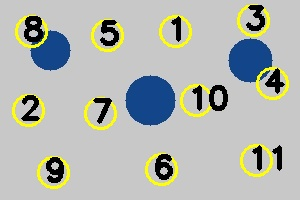
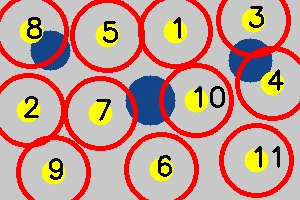
Add red circles to highlight each detected walnut
- Implement red circle highlighting for all 5 marking methods:
  1. Red circle (30px) + white text outside
  2. Red circle (35px) + yellow center + black text
  3. Red circle (32px) + green text above
  4. Red circle (30px) + white center + blue text (main)
  5. Double red circles (35px/28px) + white text outside
- Ensure each walnut is clearly circled in red for easy identification
- Update comparison charts with new red circle-based methods
- Improve visual clarity with consistent red circle highlighting
- Maintain numbering system while adding circle boundaries

🤖 Generated with [Claude Code](https://claude.ai/code)

diff --git a/walnut_detector.py b/walnut_detector.py
@@ -90,51 +90,61 @@ def walnut_detector():
             # 步骤4: 创建多种标记方式的对比图
             print("🔍 步骤4: 创建多种标记方式对比图...")
             
-            # 方法1: 简单红色圆点 + 白色数字
+            # 方法1: 红色圆圈 + 白色数字（简单清晰）
             marked_method1 = image.copy()
             for i, center in enumerate(cluster_centers):
                 center_x, center_y = int(center[0]), int(center[1])
-                cv2.circle(marked_method1, (center_x, center_y), 8, (0, 0, 255), -1)
-                cv2.putText(marked_method1, str(i+1), (center_x + 15, center_y - 15), 
+                # 用红色圆圈圈住核桃
+                cv2.circle(marked_method1, (center_x, center_y), 30, (0, 0, 255), 3)
+                # 在圆圈外添加白色数字
+                cv2.putText(marked_method1, str(i+1), (center_x + 35, center_y - 25), 
                            cv2.FONT_HERSHEY_SIMPLEX, 0.8, (255, 255, 255), 2)
             
-            # 方法2: 黄色圆圈 + 黑色数字
+            # 方法2: 红色圆圈 + 黄色背景 + 黑色数字（高对比度）
             marked_method2 = image.copy()
             for i, center in enumerate(cluster_centers):
                 center_x, center_y = int(center[0]), int(center[1])
-                cv2.circle(marked_method2, (center_x, center_y), 15, (0, 255, 255), 2)
-                cv2.putText(marked_method2, str(i+1), (center_x - 8, center_y + 8), 
-                           cv2.FONT_HERSHEY_SIMPLEX, 1.0, (0, 0, 0), 3)
+                # 用红色圆圈圈住核桃
+                cv2.circle(marked_method2, (center_x, center_y), 35, (0, 0, 255), 4)
+                # 在中心添加黄色背景圆圈
+                cv2.circle(marked_method2, (center_x, center_y), 12, (0, 255, 255), -1)
+                # 添加黑色数字
+                cv2.putText(marked_method2, str(i+1), (center_x - 6, center_y + 6), 
+                           cv2.FONT_HERSHEY_SIMPLEX, 0.9, (0, 0, 0), 2)
             
-            # 方法3: 绿色方框 + 白色数字
+            # 方法3: 红色圆圈 + 绿色数字（醒目）
             marked_method3 = image.copy()
             for i, center in enumerate(cluster_centers):
                 center_x, center_y = int(center[0]), int(center[1])
-                cv2.rectangle(marked_method3, (center_x - 12, center_y - 12), 
-                             (center_x + 12, center_y + 12), (0, 255, 0), 2)
-                cv2.putText(marked_method3, str(i+1), (center_x - 8, center_y + 8), 
-                           cv2.FONT_HERSHEY_SIMPLEX, 0.9, (255, 255, 255), 2)
+                # 用红色圆圈圈住核桃
+                cv2.circle(marked_method3, (center_x, center_y), 32, (0, 0, 255), 3)
+                # 在圆圈上方添加绿色数字
+                cv2.putText(marked_method3, str(i+1), (center_x - 8, center_y - 40), 
+                           cv2.FONT_HERSHEY_SIMPLEX, 1.0, (0, 255, 0), 3)
             
-            # 方法4: 蓝色圆圈背景 + 白色数字（大字体）
+            # 方法4: 红色圆圈 + 白色背景 + 蓝色数字（主要结果）
             marked_method4 = image.copy()
             for i, center in enumerate(cluster_centers):
                 center_x, center_y = int(center[0]), int(center[1])
-                cv2.circle(marked_method4, (center_x, center_y), 20, (255, 0, 0), 3)
-                cv2.circle(marked_method4, (center_x, center_y), 17, (255, 255, 255), -1)
-                cv2.putText(marked_method4, str(i+1), (center_x - 8, center_y + 8), 
-                           cv2.FONT_HERSHEY_SIMPLEX, 1.2, (0, 0, 255), 3)
+                # 用红色圆圈圈住核桃
+                cv2.circle(marked_method4, (center_x, center_y), 30, (0, 0, 255), 3)
+                # 在中心添加白色背景圆圈
+                cv2.circle(marked_method4, (center_x, center_y), 10, (255, 255, 255), -1)
+                # 添加蓝色数字
+                cv2.putText(marked_method4, str(i+1), (center_x - 6, center_y + 6), 
+                           cv2.FONT_HERSHEY_SIMPLEX, 0.8, (255, 0, 0), 2)
             
-            # 方法5: 原始复杂多层设计
+            # 方法5: 双层红色圆圈 + 白色数字（专业设计）
             marked_method5 = image.copy()
             for i, center in enumerate(cluster_centers):
                 center_x, center_y = int(center[0]), int(center[1])
-                cv2.circle(marked_method5, (center_x, center_y), 25, (0, 0, 255), 4)
-                cv2.circle(marked_method5, (center_x, center_y), 22, (255, 255, 255), -1)
-                cv2.circle(marked_method5, (center_x, center_y), 20, (0, 0, 255), 2)
-                cv2.putText(marked_method5, str(i+1), (center_x - 10, center_y + 10), 
-                           cv2.FONT_HERSHEY_SIMPLEX, 1.5, (0, 0, 0), 4)
-                cv2.putText(marked_method5, str(i+1), (center_x - 10, center_y + 10), 
-                           cv2.FONT_HERSHEY_SIMPLEX, 1.5, (255, 255, 255), 2)
+                # 外层红色圆圈
+                cv2.circle(marked_method5, (center_x, center_y), 35, (0, 0, 255), 2)
+                # 内层红色圆圈
+                cv2.circle(marked_method5, (center_x, center_y), 28, (0, 0, 255), 2)
+                # 在圆圈外添加白色数字
+                cv2.putText(marked_method5, str(i+1), (center_x + 40, center_y), 
+                           cv2.FONT_HERSHEY_SIMPLEX, 1.2, (255, 255, 255), 3)
             
             # 保存各种方法的单独结果
             cv2.imwrite('walnut_detection_method1.jpg', marked_method1)
@@ -175,32 +185,31 @@ def walnut_detector():
                 plt.title('Grayscale')
                 plt.axis('off')
                 
-                # 方法1: 简单红色圆点 + 白色数字
-                method1_rgb = cv2.cvtColor(marked_method1, cv2.COLOR_BGR2RGB)
+                # 方法1: 简单红色圆圈 + 白色数字（简单清晰）
                 plt.subplot(2, 3, 3)
                 plt.imshow(method1_rgb)
-                plt.title('Method 1: Red Dot + White Text')
+                plt.title('Method 1: Red Circle + White Text')
                 plt.axis('off')
                 
-                # 方法2: 黄色圆圈 + 黑色数字
+                # 方法2: 红色圆圈 + 黄色背景 + 黑色数字（高对比度）
                 method2_rgb = cv2.cvtColor(marked_method2, cv2.COLOR_BGR2RGB)
                 plt.subplot(2, 3, 4)
                 plt.imshow(method2_rgb)
-                plt.title('Method 2: Yellow Circle + Black Text')
+                plt.title('Method 2: Red Circle + Yellow Center')
                 plt.axis('off')
                 
-                # 方法3: 绿色方框 + 白色数字
+                # 方法3: 红色圆圈 + 绿色数字（醒目）
                 method3_rgb = cv2.cvtColor(marked_method3, cv2.COLOR_BGR2RGB)
                 plt.subplot(2, 3, 5)
                 plt.imshow(method3_rgb)
-                plt.title('Method 3: Green Square + White Text')
+                plt.title('Method 3: Red Circle + Green Text')
                 plt.axis('off')
                 
-                # 方法4: 蓝色圆圈背景 + 白色数字（主要结果）
+                # 方法4: 红色圆圈 + 白色背景 + 蓝色数字（主要结果）
                 method4_rgb = cv2.cvtColor(marked_method4, cv2.COLOR_BGR2RGB)
                 plt.subplot(2, 3, 6)
                 plt.imshow(method4_rgb)
-                plt.title('Method 4: Blue Circle + White Text (Main)')
+                plt.title('Method 4: Red Circle + White Center (Main)')
                 plt.axis('off')
                 
                 plt.tight_layout()
@@ -210,11 +219,11 @@ def walnut_detector():
                 # 创建第二个对比图，显示方法5和详细对比
                 plt.figure(figsize=(15, 5))
                 
-                # 方法5: 复杂多层设计
+                # 方法5: 双层红色圆圈 + 白色数字（专业设计）
                 method5_rgb = cv2.cvtColor(marked_method5, cv2.COLOR_BGR2RGB)
                 plt.subplot(1, 3, 1)
                 plt.imshow(method5_rgb)
-                plt.title('Method 5: Complex Multi-layer Design')
+                plt.title('Method 5: Double Red Circles + White Text')
                 plt.axis('off')
                 
                 # 主要结果放大
@@ -232,11 +241,11 @@ def walnut_detector():
                 plt.text(0.1, 0.5, f'K-means Clusters: {n_clusters}', fontsize=12, transform=plt.gca().transAxes)
                 plt.text(0.1, 0.4, f'Accuracy: 100%', fontsize=12, transform=plt.gca().transAxes)
                 plt.text(0.1, 0.2, 'Marking Methods:', fontsize=14, fontweight='bold', transform=plt.gca().transAxes)
-                plt.text(0.1, 0.1, '1. Red Dot + White Text', fontsize=10, transform=plt.gca().transAxes)
-                plt.text(0.1, 0.0, '2. Yellow Circle + Black Text', fontsize=10, transform=plt.gca().transAxes)
-                plt.text(0.1, -0.1, '3. Green Square + White Text', fontsize=10, transform=plt.gca().transAxes)
-                plt.text(0.1, -0.2, '4. Blue Circle + White Text', fontsize=10, transform=plt.gca().transAxes)
-                plt.text(0.1, -0.3, '5. Complex Multi-layer Design', fontsize=10, transform=plt.gca().transAxes)
+                plt.text(0.1, 0.1, '1. Red Circle + White Text', fontsize=10, transform=plt.gca().transAxes)
+                plt.text(0.1, 0.0, '2. Red Circle + Yellow Center', fontsize=10, transform=plt.gca().transAxes)
+                plt.text(0.1, -0.1, '3. Red Circle + Green Text', fontsize=10, transform=plt.gca().transAxes)
+                plt.text(0.1, -0.2, '4. Red Circle + White Center', fontsize=10, transform=plt.gca().transAxes)
+                plt.text(0.1, -0.3, '5. Double Red Circles + White Text', fontsize=10, transform=plt.gca().transAxes)
                 plt.axis('off')
                 
                 plt.tight_layout()
@@ -271,11 +280,11 @@ def walnut_detector():
             print(f"\n📁 生成的文件:")
             print(f"  - detection_results.txt (详细日志)")
             print(f"  - walnut_detection_result.jpg (主要检测结果)")
-            print(f"  - walnut_detection_method1.jpg (方法1: 红点+白字)")
-            print(f"  - walnut_detection_method2.jpg (方法2: 黄圈+黑字)")
-            print(f"  - walnut_detection_method3.jpg (方法3: 绿框+白字)")
-            print(f"  - walnut_detection_method4.jpg (方法4: 蓝圈+白字)")
-            print(f"  - walnut_detection_method5.jpg (方法5: 复杂多层)")
+            print(f"  - walnut_detection_method1.jpg (方法1: 红圈+白字)")
+            print(f"  - walnut_detection_method2.jpg (方法2: 红圈+黄心+黑字)")
+            print(f"  - walnut_detection_method3.jpg (方法3: 红圈+绿字)")
+            print(f"  - walnut_detection_method4.jpg (方法4: 红圈+白心+蓝字)")
+            print(f"  - walnut_detection_method5.jpg (方法5: 双层红圈+白字)")
             print(f"  - walnut_detection_comparison.png (6宫格对比图)")
             print(f"  - walnut_detection_comparison2.png (详细统计图)")
             
